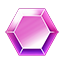
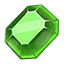
fixed bugs and update visual assets

diff --git a/src/game/match3_view.ts b/src/game/match3_view.ts
@@ -136,7 +136,7 @@ export function View() {
                 case 'HAMMER_ACTIVATED': on_hammer_activated_animation(event.value); break;
                 
                 case 'ON_CELL_ACTIVATED': on_cell_activated_animation(event.value); break;
-                case 'MOVE_PHASE_BEGIN': flow.delay(1); break;
+                case 'MOVE_PHASE_BEGIN': flow.delay(0.1); break;
                 case 'ON_MOVE_ELEMENT': on_move_element_animation(event.value); break;
                 case 'ON_REQUEST_ELEMENT': on_request_element_animation(event.value); break;
                 case 'MOVE_PHASE_END': flow.delay(1); break;
@@ -220,6 +220,8 @@ export function View() {
             x: element_pos.x,
             y: element_pos.y
         });
+
+        selected_element = null;
     }
 
     //#endregion INPUT
@@ -339,6 +341,8 @@ export function View() {
             for(const element of activation.maked_elements)
                 make_element_view(element.x, element.y, element.id, element.type);
         });
+
+        flow.delay(swap_element_time + damaged_element_time);
     }
   
     function on_swaped_diskospheres_animation(message: Messages[MessageId]) {
@@ -363,7 +367,7 @@ export function View() {
                 make_element_view(element.x, element.y, element.id, element.type);
         });
 
-        flow.delay(swap_element_time);
+        flow.delay(swap_element_time + damaged_element_time);
     }
 
     function on_rocket_activated_animation(message: Messages[MessageId]) {

diff --git a/src/game/match3_game.ts b/src/game/match3_game.ts
@@ -706,10 +706,14 @@ export function Game() {
     function try_hammer_activation(x: number, y: number) {
         if(!busters.hammer_active || GameStorage.get('hammer_counts') <= 0) return false;
         
-        const removed_element = field.remove_element(x, y, true, false);
-        if(removed_element == undefined) return false;
-
-        write_game_step_event('HAMMER_ACTIVATED', {x, y, id: removed_element.id});
+        // FIXME: for buster under wall
+        if(is_buster(x, y)) try_activate_buster_element(x, y);
+        else {
+            const removed_element = field.remove_element(x, y, true, false);
+            if(removed_element == undefined) return false;
+            
+            write_game_step_event('HAMMER_ACTIVATED', {x, y, id: removed_element.id});
+        }
         
         GameStorage.set('hammer_counts', GameStorage.get('hammer_counts') - 1);
         busters.hammer_active = false;
